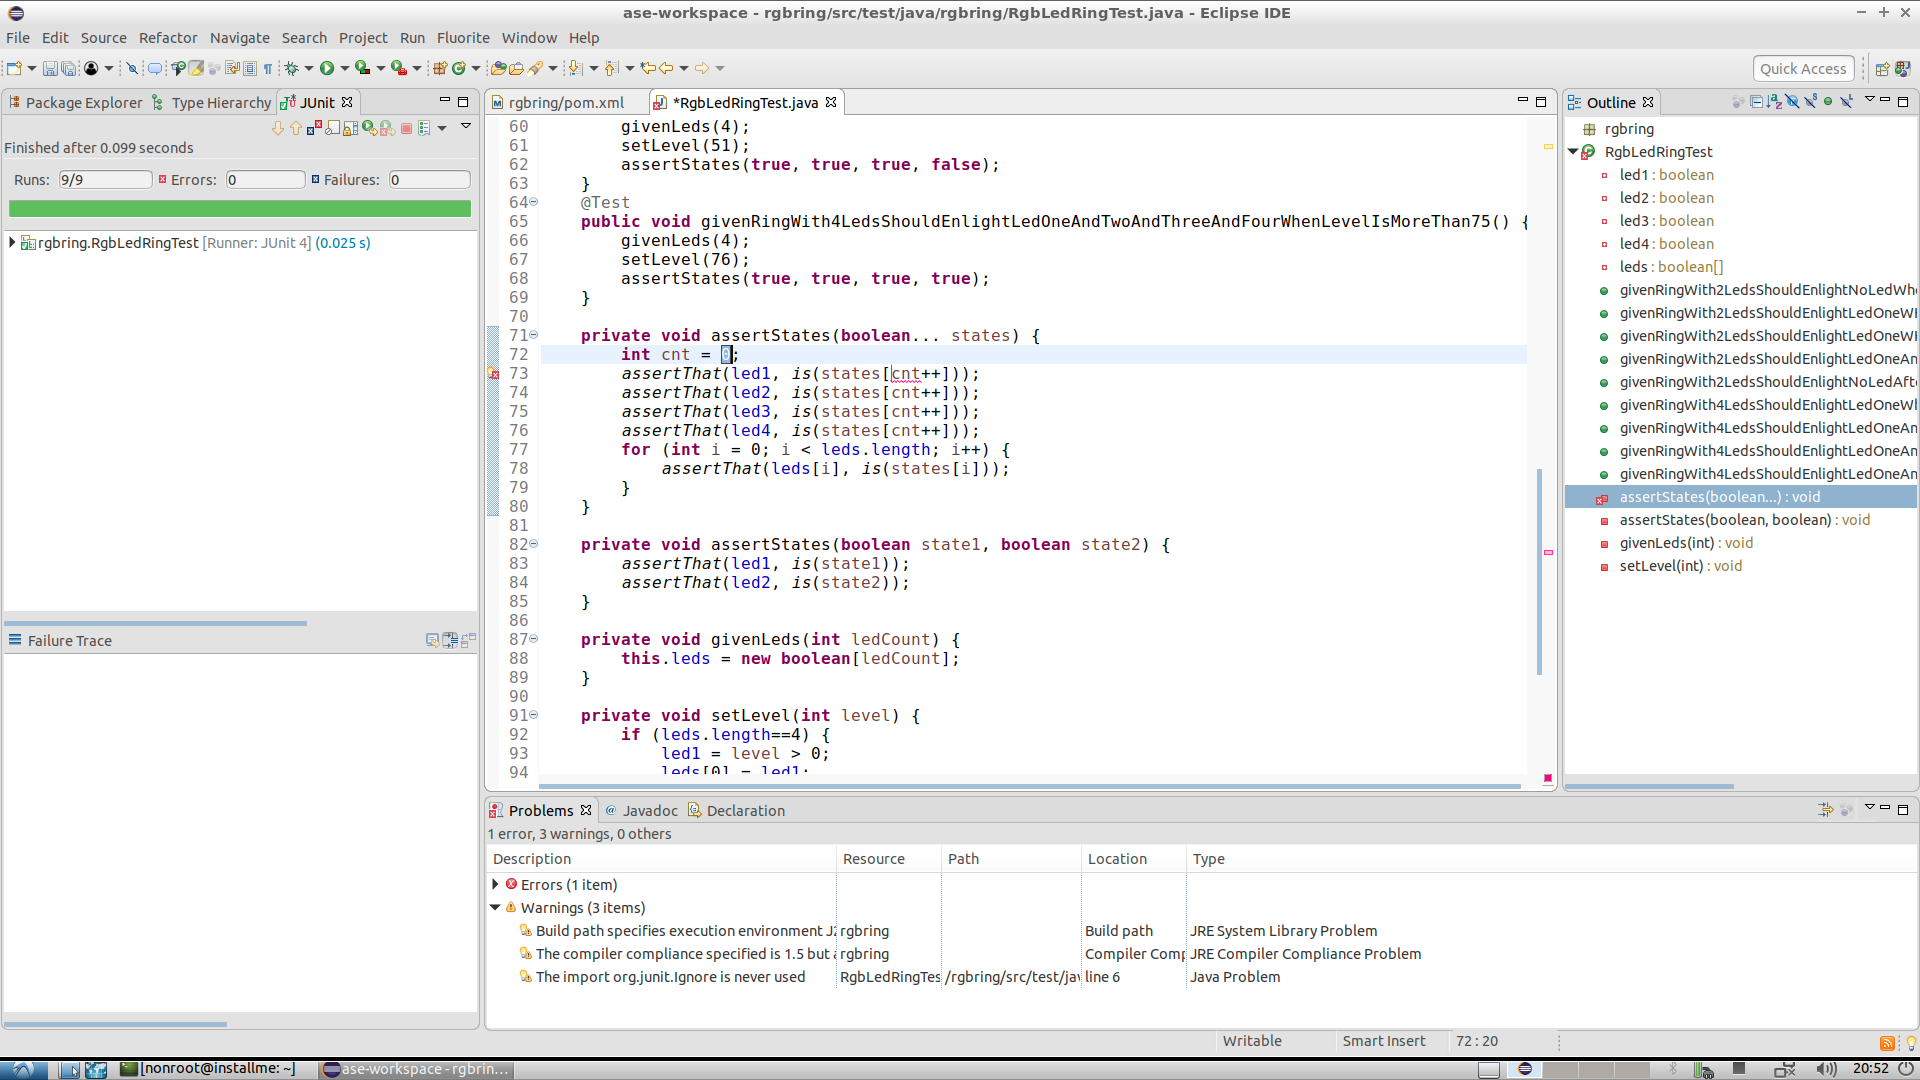
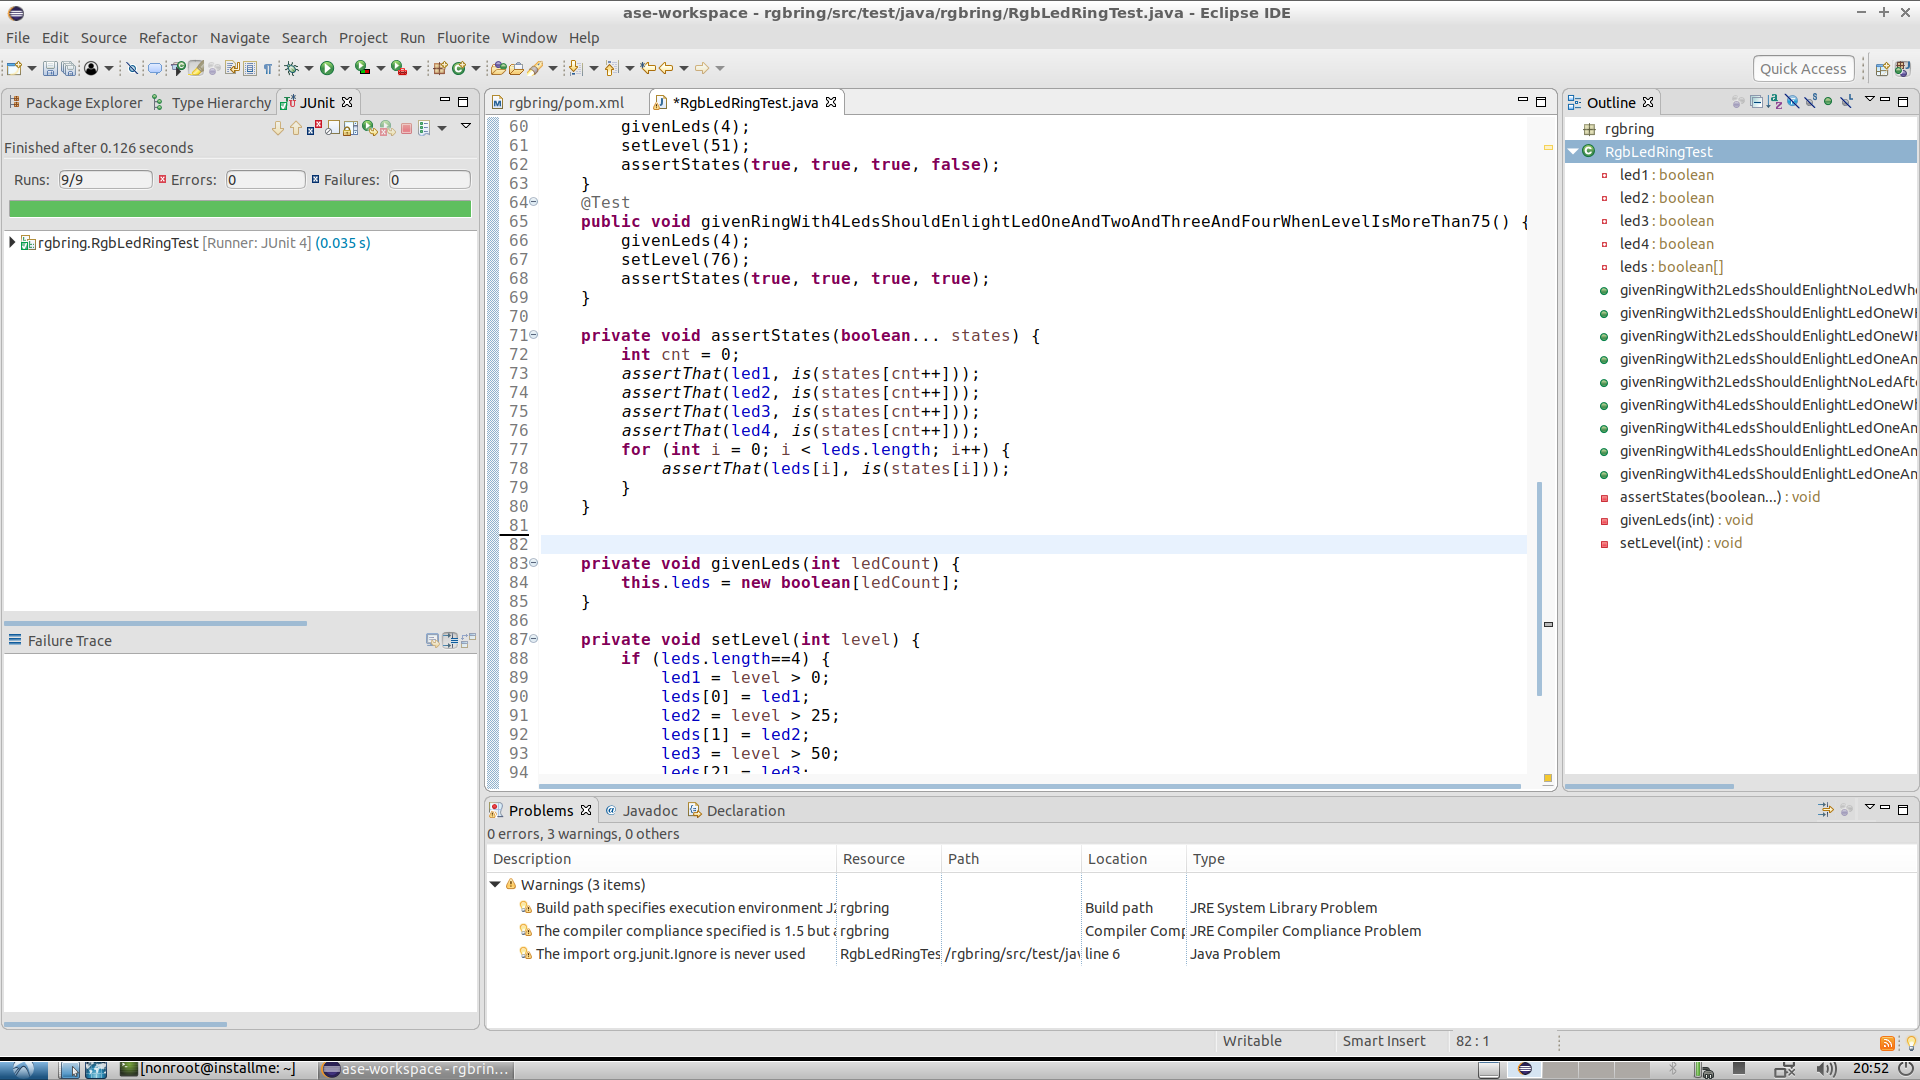
autocommit on change

diff --git a/src/test/java/rgbring/RgbLedRingTest.java b/src/test/java/rgbring/RgbLedRingTest.java
@@ -79,10 +79,6 @@ public class RgbLedRingTest {
 		}
 	}
 
-	private void assertStates(boolean state1, boolean state2) {
-		assertThat(led1, is(state1));
-		assertThat(led2, is(state2));
-	}
 
 	private void givenLeds(int ledCount) {
 		this.leds = new boolean[ledCount];
